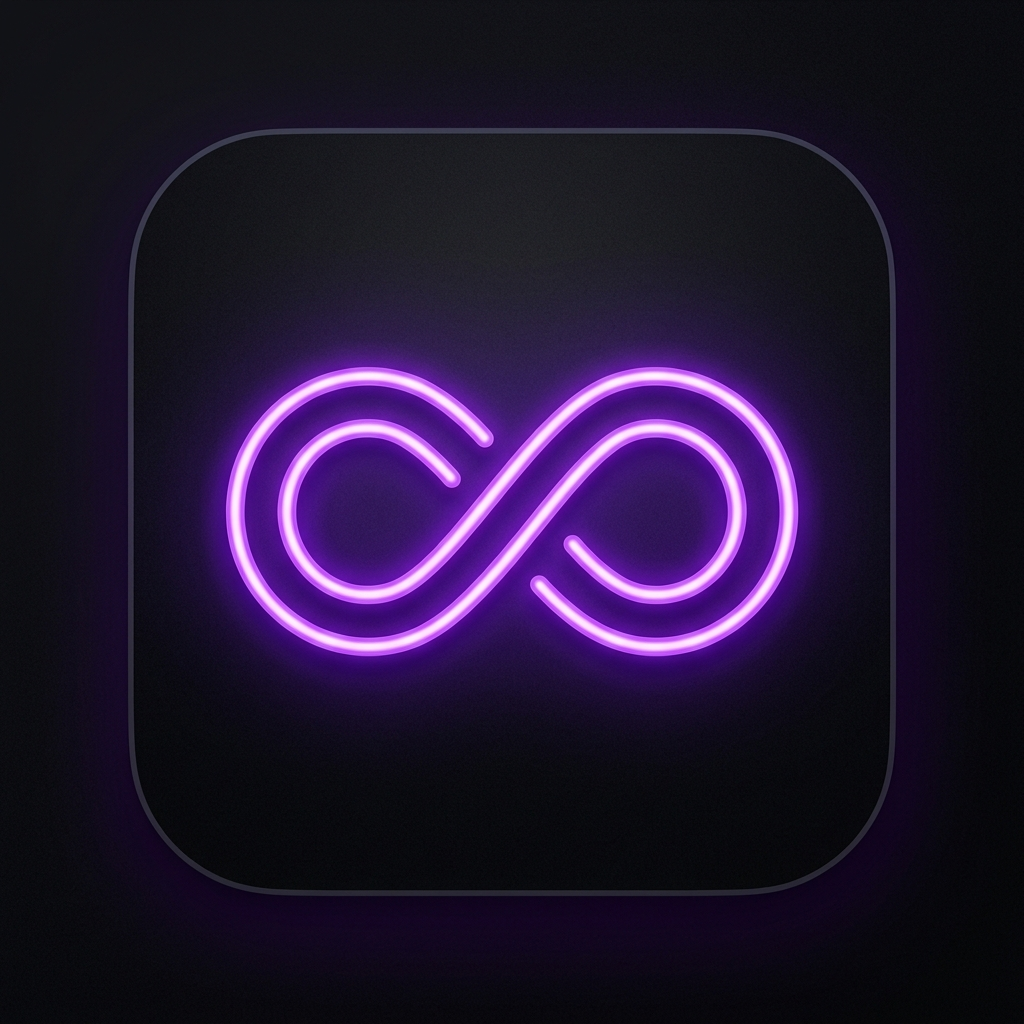
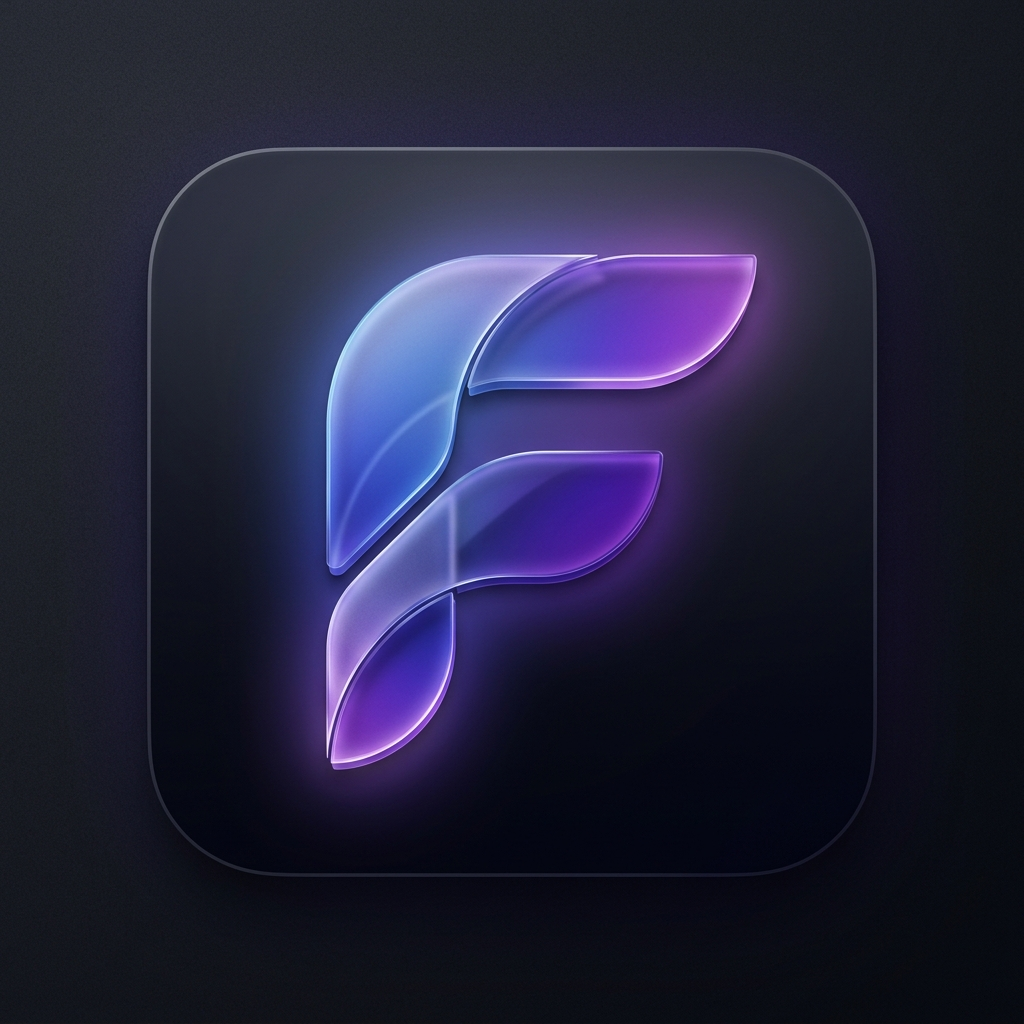
Deploying to gh-pages from @ amvaltrx/focusflow@eabbb5231232be3ae49b2715ee932c06f1bbc118 🚀

diff --git a/sw.js b/sw.js
@@ -1,25 +1,1 @@
-/* eslint-env serviceworker */
-
-self.addEventListener('push', function(event) {
-    const data = event.data.json();
-    const options = {
-        body: data.body,
-        icon: 'icon.png',
-        badge: 'icon.png',
-        vibrate: [100, 50, 100],
-        data: {
-            url: data.url || '/'
-        }
-    };
-
-    event.waitUntil(
-        self.registration.showNotification(data.title, options)
-    );
-});
-
-self.addEventListener('notificationclick', function(event) {
-    event.notification.close();
-    event.waitUntil(
-        clients.openWindow(event.notification.data.url)
-    );
-});
+if(!self.define){let e,i={};const s=(s,n)=>(s=new URL(s+".js",n).href,i[s]||new Promise(i=>{if("document"in self){const e=document.createElement("script");e.src=s,e.onload=i,document.head.appendChild(e)}else e=s,importScripts(s),i()}).then(()=>{let e=i[s];if(!e)throw new Error(`Module ${s} didn’t register its module`);return e}));self.define=(n,c)=>{const r=e||("document"in self?document.currentScript.src:"")||location.href;if(i[r])return;let o={};const t=e=>s(e,r),l={module:{uri:r},exports:o,require:t};i[r]=Promise.all(n.map(e=>l[e]||t(e))).then(e=>(c(...e),o))}}define(["./workbox-835c8c05"],function(e){"use strict";self.skipWaiting(),e.clientsClaim(),e.precacheAndRoute([{url:"registerSW.js",revision:"402b66900e731ca748771b6fc5e7a068"},{url:"pwa-512x512.png",revision:"739cf4c18bf21e32ee4583b2073c610a"},{url:"pwa-192x192.png",revision:"739cf4c18bf21e32ee4583b2073c610a"},{url:"index.html",revision:"36036e0172d9768aafe494d9397d566f"},{url:"icons.svg",revision:"3b4fcfcf393eca4d264dca4a4663bc37"},{url:"icon.png",revision:"c84117946b94a4b385558c19f78a47c9"},{url:"favicon.svg",revision:"7e840862161341271697daa99a40d76b"},{url:"assets/index-CEj5z0vu.css",revision:null},{url:"assets/index-BiuSsu2B.js",revision:null},{url:"pwa-192x192.png",revision:"739cf4c18bf21e32ee4583b2073c610a"},{url:"pwa-512x512.png",revision:"739cf4c18bf21e32ee4583b2073c610a"},{url:"manifest.webmanifest",revision:"95165bb0e6bb5bec62ec8003216c6153"}],{}),e.cleanupOutdatedCaches(),e.registerRoute(new e.NavigationRoute(e.createHandlerBoundToURL("index.html"))),e.registerRoute(/^https:\/\/fonts\.googleapis\.com\/.*/i,new e.CacheFirst({cacheName:"google-fonts-cache",plugins:[new e.ExpirationPlugin({maxEntries:10,maxAgeSeconds:31536e3}),new e.CacheableResponsePlugin({statuses:[0,200]})]}),"GET")});

diff --git a/index.html b/index.html
@@ -3,12 +3,13 @@
   <head>
     <meta charset="UTF-8" />
     <link rel="icon" type="image/svg+xml" href="./favicon.svg" />
-    <meta name="viewport" content="width=device-width, initial-scale=1.0, maximum-scale=1.0, user-scalable=no" />
+    <meta name="viewport" content="width=device-width, initial-scale=1.0, maximum-scale=1.0, user-scalable=no, viewport-fit=cover" />
     <title>FocusFlow</title>
-    <meta name="theme-color" content="#0f172a" />
+    <meta name="theme-color" content="#020617" />
     <link rel="apple-touch-icon" href="./pwa-192x192.png">
     <meta name="apple-mobile-web-app-capable" content="yes">
     <meta name="apple-mobile-web-app-status-bar-style" content="black-translucent">
+
     <script>
       window.onerror = function(msg, url, lineNo, columnNo, error) {
         var div = document.createElement('div');
@@ -26,7 +27,7 @@
     </script>
     <script type="module" crossorigin src="./assets/index-BiuSsu2B.js"></script>
     <link rel="stylesheet" crossorigin href="./assets/index-CEj5z0vu.css">
-  </head>
+  <link rel="manifest" href="./manifest.webmanifest"><script id="vite-plugin-pwa:register-sw" src="./registerSW.js"></script></head>
   <body>
     <div id="root"></div>
   </body>

diff --git a/registerSW.js b/registerSW.js
@@ -1,0 +1,1 @@
+if('serviceWorker' in navigator) {window.addEventListener('load', () => {navigator.serviceWorker.register('./sw.js', { scope: './' })})}

diff --git a/workbox-835c8c05.js b/workbox-835c8c05.js
@@ -1,0 +1,1 @@
+define(["exports"],function(t){"use strict";try{self["workbox:core:7.4.0"]&&_()}catch(t){}const e=(t,...e)=>{let s=t;return e.length>0&&(s+=` :: ${JSON.stringify(e)}`),s};class s extends Error{constructor(t,s){super(e(t,s)),this.name=t,this.details=s}}try{self["workbox:routing:7.4.0"]&&_()}catch(t){}const n=t=>t&&"object"==typeof t?t:{handle:t};class i{constructor(t,e,s="GET"){this.handler=n(e),this.match=t,this.method=s}setCatchHandler(t){this.catchHandler=n(t)}}class r extends i{constructor(t,e,s){super(({url:e})=>{const s=t.exec(e.href);if(s&&(e.origin===location.origin||0===s.index))return s.slice(1)},e,s)}}class a{constructor(){this.t=new Map,this.i=new Map}get routes(){return this.t}addFetchListener(){self.addEventListener("fetch",t=>{const{request:e}=t,s=this.handleRequest({request:e,event:t});s&&t.respondWith(s)})}addCacheListener(){self.addEventListener("message",t=>{if(t.data&&"CACHE_URLS"===t.data.type){const{payload:e}=t.data,s=Promise.all(e.urlsToCache.map(e=>{"string"==typeof e&&(e=[e]);const s=new Request(...e);return this.handleRequest({request:s,event:t})}));t.waitUntil(s),t.ports&&t.ports[0]&&s.then(()=>t.ports[0].postMessage(!0))}})}handleRequest({request:t,event:e}){const s=new URL(t.url,location.href);if(!s.protocol.startsWith("http"))return;const n=s.origin===location.origin,{params:i,route:r}=this.findMatchingRoute({event:e,request:t,sameOrigin:n,url:s});let a=r&&r.handler;const o=t.method;if(!a&&this.i.has(o)&&(a=this.i.get(o)),!a)return;let c;try{c=a.handle({url:s,request:t,event:e,params:i})}catch(t){c=Promise.reject(t)}const h=r&&r.catchHandler;return c instanceof Promise&&(this.o||h)&&(c=c.catch(async n=>{if(h)try{return await h.handle({url:s,request:t,event:e,params:i})}catch(t){t instanceof Error&&(n=t)}if(this.o)return this.o.handle({url:s,request:t,event:e});throw n})),c}findMatchingRoute({url:t,sameOrigin:e,request:s,event:n}){const i=this.t.get(s.method)||[];for(const r of i){let i;const a=r.match({url:t,sameOrigin:e,request:s,event:n});if(a)return i=a,(Array.isArray(i)&&0===i.length||a.constructor===Object&&0===Object.keys(a).length||"boolean"==typeof a)&&(i=void 0),{route:r,params:i}}return{}}setDefaultHandler(t,e="GET"){this.i.set(e,n(t))}setCatchHandler(t){this.o=n(t)}registerRoute(t){this.t.has(t.method)||this.t.set(t.method,[]),this.t.get(t.method).push(t)}unregisterRoute(t){if(!this.t.has(t.method))throw new s("unregister-route-but-not-found-with-method",{method:t.method});const e=this.t.get(t.method).indexOf(t);if(!(e>-1))throw new s("unregister-route-route-not-registered");this.t.get(t.method).splice(e,1)}}let o;const c=()=>(o||(o=new a,o.addFetchListener(),o.addCacheListener()),o);function h(t,e,n){let a;if("string"==typeof t){const s=new URL(t,location.href);a=new i(({url:t})=>t.href===s.href,e,n)}else if(t instanceof RegExp)a=new r(t,e,n);else if("function"==typeof t)a=new i(t,e,n);else{if(!(t instanceof i))throw new s("unsupported-route-type",{moduleName:"workbox-routing",funcName:"registerRoute",paramName:"capture"});a=t}return c().registerRoute(a),a}const u={googleAnalytics:"googleAnalytics",precache:"precache-v2",prefix:"workbox",runtime:"runtime",suffix:"undefined"!=typeof registration?registration.scope:""},l=t=>[u.prefix,t,u.suffix].filter(t=>t&&t.length>0).join("-"),f=t=>t||l(u.precache),w=t=>t||l(u.runtime);function d(t){t.then(()=>{})}const p=new Set;function y(){return y=Object.assign?Object.assign.bind():function(t){for(var e=1;e<arguments.length;e++){var s=arguments[e];for(var n in s)({}).hasOwnProperty.call(s,n)&&(t[n]=s[n])}return t},y.apply(null,arguments)}let m,g;const R=new WeakMap,v=new WeakMap,b=new WeakMap,q=new WeakMap,D=new WeakMap;let U={get(t,e,s){if(t instanceof IDBTransaction){if("done"===e)return v.get(t);if("objectStoreNames"===e)return t.objectStoreNames||b.get(t);if("store"===e)return s.objectStoreNames[1]?void 0:s.objectStore(s.objectStoreNames[0])}return I(t[e])},set:(t,e,s)=>(t[e]=s,!0),has:(t,e)=>t instanceof IDBTransaction&&("done"===e||"store"===e)||e in t};function x(t){return t!==IDBDatabase.prototype.transaction||"objectStoreNames"in IDBTransaction.prototype?(g||(g=[IDBCursor.prototype.advance,IDBCursor.prototype.continue,IDBCursor.prototype.continuePrimaryKey])).includes(t)?function(...e){return t.apply(C(this),e),I(R.get(this))}:function(...e){return I(t.apply(C(this),e))}:function(e,...s){const n=t.call(C(this),e,...s);return b.set(n,e.sort?e.sort():[e]),I(n)}}function L(t){return"function"==typeof t?x(t):(t instanceof IDBTransaction&&function(t){if(v.has(t))return;const e=new Promise((e,s)=>{const n=()=>{t.removeEventListener("complete",i),t.removeEventListener("error",r),t.removeEventListener("abort",r)},i=()=>{e(),n()},r=()=>{s(t.error||new DOMException("AbortError","AbortError")),n()};t.addEventListener("complete",i),t.addEventListener("error",r),t.addEventListener("abort",r)});v.set(t,e)}(t),e=t,(m||(m=[IDBDatabase,IDBObjectStore,IDBIndex,IDBCursor,IDBTransaction])).some(t=>e instanceof t)?new Proxy(t,U):t);var e}function I(t){if(t instanceof IDBRequest)return function(t){const e=new Promise((e,s)=>{const n=()=>{t.removeEventListener("success",i),t.removeEventListener("error",r)},i=()=>{e(I(t.result)),n()},r=()=>{s(t.error),n()};t.addEventListener("success",i),t.addEventListener("error",r)});return e.then(e=>{e instanceof IDBCursor&&R.set(e,t)}).catch(()=>{}),D.set(e,t),e}(t);if(q.has(t))return q.get(t);const e=L(t);return e!==t&&(q.set(t,e),D.set(e,t)),e}const C=t=>D.get(t);const E=["get","getKey","getAll","getAllKeys","count"],N=["put","add","delete","clear"],O=new Map;function B(t,e){if(!(t instanceof IDBDatabase)||e in t||"string"!=typeof e)return;if(O.get(e))return O.get(e);const s=e.replace(/FromIndex$/,""),n=e!==s,i=N.includes(s);if(!(s in(n?IDBIndex:IDBObjectStore).prototype)||!i&&!E.includes(s))return;const r=async function(t,...e){const r=this.transaction(t,i?"readwrite":"readonly");let a=r.store;return n&&(a=a.index(e.shift())),(await Promise.all([a[s](...e),i&&r.done]))[0]};return O.set(e,r),r}U=(t=>y({},t,{get:(e,s,n)=>B(e,s)||t.get(e,s,n),has:(e,s)=>!!B(e,s)||t.has(e,s)}))(U);try{self["workbox:expiration:7.4.0"]&&_()}catch(t){}const k="cache-entries",M=t=>{const e=new URL(t,location.href);return e.hash="",e.href};class T{constructor(t){this.h=null,this.u=t}l(t){const e=t.createObjectStore(k,{keyPath:"id"});e.createIndex("cacheName","cacheName",{unique:!1}),e.createIndex("timestamp","timestamp",{unique:!1})}p(t){this.l(t),this.u&&function(t,{blocked:e}={}){const s=indexedDB.deleteDatabase(t);e&&s.addEventListener("blocked",t=>e(t.oldVersion,t)),I(s).then(()=>{})}(this.u)}async setTimestamp(t,e){const s={url:t=M(t),timestamp:e,cacheName:this.u,id:this.m(t)},n=(await this.getDb()).transaction(k,"readwrite",{durability:"relaxed"});await n.store.put(s),await n.done}async getTimestamp(t){const e=await this.getDb(),s=await e.get(k,this.m(t));return null==s?void 0:s.timestamp}async expireEntries(t,e){const s=await this.getDb();let n=await s.transaction(k).store.index("timestamp").openCursor(null,"prev");const i=[];let r=0;for(;n;){const s=n.value;s.cacheName===this.u&&(t&&s.timestamp<t||e&&r>=e?i.push(n.value):r++),n=await n.continue()}const a=[];for(const t of i)await s.delete(k,t.id),a.push(t.url);return a}m(t){return this.u+"|"+M(t)}async getDb(){return this.h||(this.h=await function(t,e,{blocked:s,upgrade:n,blocking:i,terminated:r}={}){const a=indexedDB.open(t,e),o=I(a);return n&&a.addEventListener("upgradeneeded",t=>{n(I(a.result),t.oldVersion,t.newVersion,I(a.transaction),t)}),s&&a.addEventListener("blocked",t=>s(t.oldVersion,t.newVersion,t)),o.then(t=>{r&&t.addEventListener("close",()=>r()),i&&t.addEventListener("versionchange",t=>i(t.oldVersion,t.newVersion,t))}).catch(()=>{}),o}("workbox-expiration",1,{upgrade:this.p.bind(this)})),this.h}}class j{constructor(t,e={}){this.R=!1,this.v=!1,this.q=e.maxEntries,this.D=e.maxAgeSeconds,this.U=e.matchOptions,this.u=t,this._=new T(t)}async expireEntries(){if(this.R)return void(this.v=!0);this.R=!0;const t=this.D?Date.now()-1e3*this.D:0,e=await this._.expireEntries(t,this.q),s=await self.caches.open(this.u);for(const t of e)await s.delete(t,this.U);this.R=!1,this.v&&(this.v=!1,d(this.expireEntries()))}async updateTimestamp(t){await this._.setTimestamp(t,Date.now())}async isURLExpired(t){if(this.D){const e=await this._.getTimestamp(t),s=Date.now()-1e3*this.D;return void 0===e||e<s}return!1}async delete(){this.v=!1,await this._.expireEntries(1/0)}}try{self["workbox:cacheable-response:7.4.0"]&&_()}catch(t){}class P{constructor(t={}){this.L=t.statuses,this.I=t.headers}isResponseCacheable(t){let e=!0;return this.L&&(e=this.L.includes(t.status)),this.I&&e&&(e=Object.keys(this.I).some(e=>t.headers.get(e)===this.I[e])),e}}function W(t,e){const s=new URL(t);for(const t of e)s.searchParams.delete(t);return s.href}class S{constructor(){this.promise=new Promise((t,e)=>{this.resolve=t,this.reject=e})}}try{self["workbox:strategies:7.4.0"]&&_()}catch(t){}function K(t){return"string"==typeof t?new Request(t):t}class A{constructor(t,e){this.C={},Object.assign(this,e),this.event=e.event,this.N=t,this.O=new S,this.B=[],this.k=[...t.plugins],this.M=new Map;for(const t of this.k)this.M.set(t,{});this.event.waitUntil(this.O.promise)}async fetch(t){const{event:e}=this;let n=K(t);if("navigate"===n.mode&&e instanceof FetchEvent&&e.preloadResponse){const t=await e.preloadResponse;if(t)return t}const i=this.hasCallback("fetchDidFail")?n.clone():null;try{for(const t of this.iterateCallbacks("requestWillFetch"))n=await t({request:n.clone(),event:e})}catch(t){if(t instanceof Error)throw new s("plugin-error-request-will-fetch",{thrownErrorMessage:t.message})}const r=n.clone();try{let t;t=await fetch(n,"navigate"===n.mode?void 0:this.N.fetchOptions);for(const s of this.iterateCallbacks("fetchDidSucceed"))t=await s({event:e,request:r,response:t});return t}catch(t){throw i&&await this.runCallbacks("fetchDidFail",{error:t,event:e,originalRequest:i.clone(),request:r.clone()}),t}}async fetchAndCachePut(t){const e=await this.fetch(t),s=e.clone();return this.waitUntil(this.cachePut(t,s)),e}async cacheMatch(t){const e=K(t);let s;const{cacheName:n,matchOptions:i}=this.N,r=await this.getCacheKey(e,"read"),a=Object.assign(Object.assign({},i),{cacheName:n});s=await caches.match(r,a);for(const t of this.iterateCallbacks("cachedResponseWillBeUsed"))s=await t({cacheName:n,matchOptions:i,cachedResponse:s,request:r,event:this.event})||void 0;return s}async cachePut(t,e){const n=K(t);var i;await(i=0,new Promise(t=>setTimeout(t,i)));const r=await this.getCacheKey(n,"write");if(!e)throw new s("cache-put-with-no-response",{url:(a=r.url,new URL(String(a),location.href).href.replace(new RegExp(`^${location.origin}`),""))});var a;const o=await this.T(e);if(!o)return!1;const{cacheName:c,matchOptions:h}=this.N,u=await self.caches.open(c),l=this.hasCallback("cacheDidUpdate"),f=l?await async function(t,e,s,n){const i=W(e.url,s);if(e.url===i)return t.match(e,n);const r=Object.assign(Object.assign({},n),{ignoreSearch:!0}),a=await t.keys(e,r);for(const e of a)if(i===W(e.url,s))return t.match(e,n)}(u,r.clone(),["__WB_REVISION__"],h):null;try{await u.put(r,l?o.clone():o)}catch(t){if(t instanceof Error)throw"QuotaExceededError"===t.name&&await async function(){for(const t of p)await t()}(),t}for(const t of this.iterateCallbacks("cacheDidUpdate"))await t({cacheName:c,oldResponse:f,newResponse:o.clone(),request:r,event:this.event});return!0}async getCacheKey(t,e){const s=`${t.url} | ${e}`;if(!this.C[s]){let n=t;for(const t of this.iterateCallbacks("cacheKeyWillBeUsed"))n=K(await t({mode:e,request:n,event:this.event,params:this.params}));this.C[s]=n}return this.C[s]}hasCallback(t){for(const e of this.N.plugins)if(t in e)return!0;return!1}async runCallbacks(t,e){for(const s of this.iterateCallbacks(t))await s(e)}*iterateCallbacks(t){for(const e of this.N.plugins)if("function"==typeof e[t]){const s=this.M.get(e),n=n=>{const i=Object.assign(Object.assign({},n),{state:s});return e[t](i)};yield n}}waitUntil(t){return this.B.push(t),t}async doneWaiting(){for(;this.B.length;){const t=this.B.splice(0),e=(await Promise.allSettled(t)).find(t=>"rejected"===t.status);if(e)throw e.reason}}destroy(){this.O.resolve(null)}async T(t){let e=t,s=!1;for(const t of this.iterateCallbacks("cacheWillUpdate"))if(e=await t({request:this.request,response:e,event:this.event})||void 0,s=!0,!e)break;return s||e&&200!==e.status&&(e=void 0),e}}class F{constructor(t={}){this.cacheName=w(t.cacheName),this.plugins=t.plugins||[],this.fetchOptions=t.fetchOptions,this.matchOptions=t.matchOptions}handle(t){const[e]=this.handleAll(t);return e}handleAll(t){t instanceof FetchEvent&&(t={event:t,request:t.request});const e=t.event,s="string"==typeof t.request?new Request(t.request):t.request,n="params"in t?t.params:void 0,i=new A(this,{event:e,request:s,params:n}),r=this.j(i,s,e);return[r,this.P(r,i,s,e)]}async j(t,e,n){let i;await t.runCallbacks("handlerWillStart",{event:n,request:e});try{if(i=await this.W(e,t),!i||"error"===i.type)throw new s("no-response",{url:e.url})}catch(s){if(s instanceof Error)for(const r of t.iterateCallbacks("handlerDidError"))if(i=await r({error:s,event:n,request:e}),i)break;if(!i)throw s}for(const s of t.iterateCallbacks("handlerWillRespond"))i=await s({event:n,request:e,response:i});return i}async P(t,e,s,n){let i,r;try{i=await t}catch(r){}try{await e.runCallbacks("handlerDidRespond",{event:n,request:s,response:i}),await e.doneWaiting()}catch(t){t instanceof Error&&(r=t)}if(await e.runCallbacks("handlerDidComplete",{event:n,request:s,response:i,error:r}),e.destroy(),r)throw r}}function H(t,e){const s=e();return t.waitUntil(s),s}try{self["workbox:precaching:7.4.0"]&&_()}catch(t){}function $(t){if(!t)throw new s("add-to-cache-list-unexpected-type",{entry:t});if("string"==typeof t){const e=new URL(t,location.href);return{cacheKey:e.href,url:e.href}}const{revision:e,url:n}=t;if(!n)throw new s("add-to-cache-list-unexpected-type",{entry:t});if(!e){const t=new URL(n,location.href);return{cacheKey:t.href,url:t.href}}const i=new URL(n,location.href),r=new URL(n,location.href);return i.searchParams.set("__WB_REVISION__",e),{cacheKey:i.href,url:r.href}}class G{constructor(){this.updatedURLs=[],this.notUpdatedURLs=[],this.handlerWillStart=async({request:t,state:e})=>{e&&(e.originalRequest=t)},this.cachedResponseWillBeUsed=async({event:t,state:e,cachedResponse:s})=>{if("install"===t.type&&e&&e.originalRequest&&e.originalRequest instanceof Request){const t=e.originalRequest.url;s?this.notUpdatedURLs.push(t):this.updatedURLs.push(t)}return s}}}class V{constructor({precacheController:t}){this.cacheKeyWillBeUsed=async({request:t,params:e})=>{const s=(null==e?void 0:e.cacheKey)||this.S.getCacheKeyForURL(t.url);return s?new Request(s,{headers:t.headers}):t},this.S=t}}let J,Q;async function z(t,e){let n=null;if(t.url){n=new URL(t.url).origin}if(n!==self.location.origin)throw new s("cross-origin-copy-response",{origin:n});const i=t.clone(),r={headers:new Headers(i.headers),status:i.status,statusText:i.statusText},a=function(){if(void 0===J){const t=new Response("");if("body"in t)try{new Response(t.body),J=!0}catch(t){J=!1}J=!1}return J}()?i.body:await i.blob();return new Response(a,r)}class X extends F{constructor(t={}){t.cacheName=f(t.cacheName),super(t),this.K=!1!==t.fallbackToNetwork,this.plugins.push(X.copyRedirectedCacheableResponsesPlugin)}async W(t,e){const s=await e.cacheMatch(t);return s||(e.event&&"install"===e.event.type?await this.A(t,e):await this.F(t,e))}async F(t,e){let n;const i=e.params||{};if(!this.K)throw new s("missing-precache-entry",{cacheName:this.cacheName,url:t.url});{const s=i.integrity,r=t.integrity,a=!r||r===s;n=await e.fetch(new Request(t,{integrity:"no-cors"!==t.mode?r||s:void 0})),s&&a&&"no-cors"!==t.mode&&(this.H(),await e.cachePut(t,n.clone()))}return n}async A(t,e){this.H();const n=await e.fetch(t);if(!await e.cachePut(t,n.clone()))throw new s("bad-precaching-response",{url:t.url,status:n.status});return n}H(){let t=null,e=0;for(const[s,n]of this.plugins.entries())n!==X.copyRedirectedCacheableResponsesPlugin&&(n===X.defaultPrecacheCacheabilityPlugin&&(t=s),n.cacheWillUpdate&&e++);0===e?this.plugins.push(X.defaultPrecacheCacheabilityPlugin):e>1&&null!==t&&this.plugins.splice(t,1)}}X.defaultPrecacheCacheabilityPlugin={cacheWillUpdate:async({response:t})=>!t||t.status>=400?null:t},X.copyRedirectedCacheableResponsesPlugin={cacheWillUpdate:async({response:t})=>t.redirected?await z(t):t};class Y{constructor({cacheName:t,plugins:e=[],fallbackToNetwork:s=!0}={}){this.$=new Map,this.G=new Map,this.V=new Map,this.N=new X({cacheName:f(t),plugins:[...e,new V({precacheController:this})],fallbackToNetwork:s}),this.install=this.install.bind(this),this.activate=this.activate.bind(this)}get strategy(){return this.N}precache(t){this.addToCacheList(t),this.J||(self.addEventListener("install",this.install),self.addEventListener("activate",this.activate),this.J=!0)}addToCacheList(t){const e=[];for(const n of t){"string"==typeof n?e.push(n):n&&void 0===n.revision&&e.push(n.url);const{cacheKey:t,url:i}=$(n),r="string"!=typeof n&&n.revision?"reload":"default";if(this.$.has(i)&&this.$.get(i)!==t)throw new s("add-to-cache-list-conflicting-entries",{firstEntry:this.$.get(i),secondEntry:t});if("string"!=typeof n&&n.integrity){if(this.V.has(t)&&this.V.get(t)!==n.integrity)throw new s("add-to-cache-list-conflicting-integrities",{url:i});this.V.set(t,n.integrity)}if(this.$.set(i,t),this.G.set(i,r),e.length>0){const t=`Workbox is precaching URLs without revision info: ${e.join(", ")}\nThis is generally NOT safe. Learn more at https://bit.ly/wb-precache`;console.warn(t)}}}install(t){return H(t,async()=>{const e=new G;this.strategy.plugins.push(e);for(const[e,s]of this.$){const n=this.V.get(s),i=this.G.get(e),r=new Request(e,{integrity:n,cache:i,credentials:"same-origin"});await Promise.all(this.strategy.handleAll({params:{cacheKey:s},request:r,event:t}))}const{updatedURLs:s,notUpdatedURLs:n}=e;return{updatedURLs:s,notUpdatedURLs:n}})}activate(t){return H(t,async()=>{const t=await self.caches.open(this.strategy.cacheName),e=await t.keys(),s=new Set(this.$.values()),n=[];for(const i of e)s.has(i.url)||(await t.delete(i),n.push(i.url));return{deletedURLs:n}})}getURLsToCacheKeys(){return this.$}getCachedURLs(){return[...this.$.keys()]}getCacheKeyForURL(t){const e=new URL(t,location.href);return this.$.get(e.href)}getIntegrityForCacheKey(t){return this.V.get(t)}async matchPrecache(t){const e=t instanceof Request?t.url:t,s=this.getCacheKeyForURL(e);if(s){return(await self.caches.open(this.strategy.cacheName)).match(s)}}createHandlerBoundToURL(t){const e=this.getCacheKeyForURL(t);if(!e)throw new s("non-precached-url",{url:t});return s=>(s.request=new Request(t),s.params=Object.assign({cacheKey:e},s.params),this.strategy.handle(s))}}const Z=()=>(Q||(Q=new Y),Q);class tt extends i{constructor(t,e){super(({request:s})=>{const n=t.getURLsToCacheKeys();for(const i of function*(t,{ignoreURLParametersMatching:e=[/^utm_/,/^fbclid$/],directoryIndex:s="index.html",cleanURLs:n=!0,urlManipulation:i}={}){const r=new URL(t,location.href);r.hash="",yield r.href;const a=function(t,e=[]){for(const s of[...t.searchParams.keys()])e.some(t=>t.test(s))&&t.searchParams.delete(s);return t}(r,e);if(yield a.href,s&&a.pathname.endsWith("/")){const t=new URL(a.href);t.pathname+=s,yield t.href}if(n){const t=new URL(a.href);t.pathname+=".html",yield t.href}if(i){const t=i({url:r});for(const e of t)yield e.href}}(s.url,e)){const e=n.get(i);if(e){return{cacheKey:e,integrity:t.getIntegrityForCacheKey(e)}}}},t.strategy)}}t.CacheFirst=class extends F{async W(t,e){let n,i=await e.cacheMatch(t);if(!i)try{i=await e.fetchAndCachePut(t)}catch(t){t instanceof Error&&(n=t)}if(!i)throw new s("no-response",{url:t.url,error:n});return i}},t.CacheableResponsePlugin=class{constructor(t){this.cacheWillUpdate=async({response:t})=>this.X.isResponseCacheable(t)?t:null,this.X=new P(t)}},t.ExpirationPlugin=class{constructor(t={}){this.cachedResponseWillBeUsed=async({event:t,request:e,cacheName:s,cachedResponse:n})=>{if(!n)return null;const i=this.Y(n),r=this.Z(s);d(r.expireEntries());const a=r.updateTimestamp(e.url);if(t)try{t.waitUntil(a)}catch(t){}return i?n:null},this.cacheDidUpdate=async({cacheName:t,request:e})=>{const s=this.Z(t);await s.updateTimestamp(e.url),await s.expireEntries()},this.tt=t,this.D=t.maxAgeSeconds,this.et=new Map,t.purgeOnQuotaError&&function(t){p.add(t)}(()=>this.deleteCacheAndMetadata())}Z(t){if(t===w())throw new s("expire-custom-caches-only");let e=this.et.get(t);return e||(e=new j(t,this.tt),this.et.set(t,e)),e}Y(t){if(!this.D)return!0;const e=this.st(t);if(null===e)return!0;return e>=Date.now()-1e3*this.D}st(t){if(!t.headers.has("date"))return null;const e=t.headers.get("date"),s=new Date(e).getTime();return isNaN(s)?null:s}async deleteCacheAndMetadata(){for(const[t,e]of this.et)await self.caches.delete(t),await e.delete();this.et=new Map}},t.NavigationRoute=class extends i{constructor(t,{allowlist:e=[/./],denylist:s=[]}={}){super(t=>this.nt(t),t),this.it=e,this.rt=s}nt({url:t,request:e}){if(e&&"navigate"!==e.mode)return!1;const s=t.pathname+t.search;for(const t of this.rt)if(t.test(s))return!1;return!!this.it.some(t=>t.test(s))}},t.cleanupOutdatedCaches=function(){self.addEventListener("activate",t=>{const e=f();t.waitUntil((async(t,e="-precache-")=>{const s=(await self.caches.keys()).filter(s=>s.includes(e)&&s.includes(self.registration.scope)&&s!==t);return await Promise.all(s.map(t=>self.caches.delete(t))),s})(e).then(t=>{}))})},t.clientsClaim=function(){self.addEventListener("activate",()=>self.clients.claim())},t.createHandlerBoundToURL=function(t){return Z().createHandlerBoundToURL(t)},t.precacheAndRoute=function(t,e){!function(t){Z().precache(t)}(t),function(t){const e=Z();h(new tt(e,t))}(e)},t.registerRoute=h});